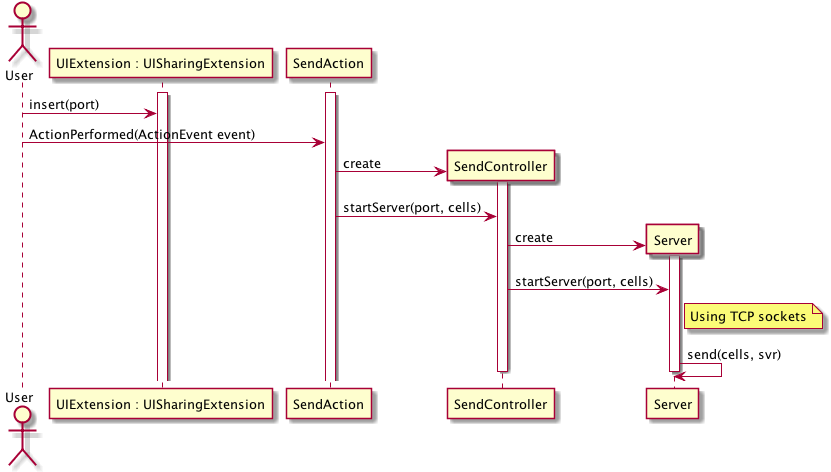
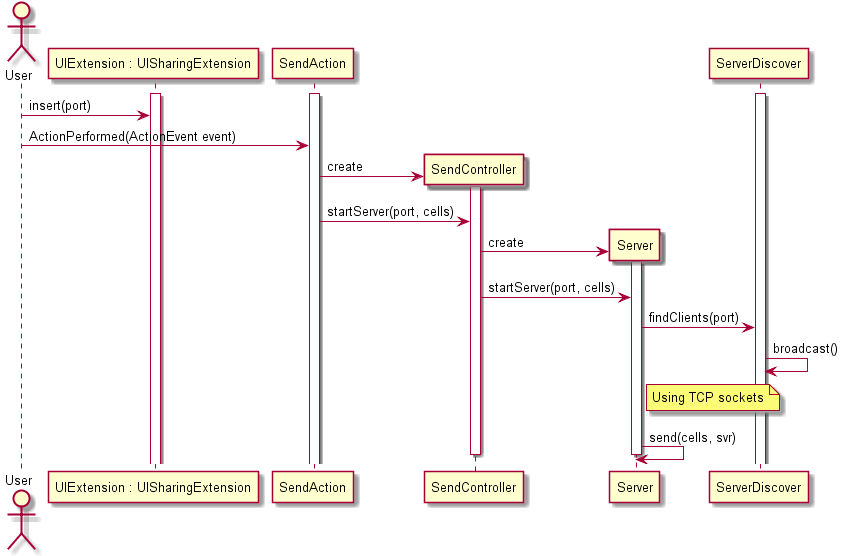
1100859: Updated some sequence diagrams of the client/server discover ref #14

Changed region(s): [[0.0, 0.0, 1.0, 1.0]]

diff --git a/src/csheets/ext/share/package-info.java b/src/csheets/ext/share/package-info.java
@@ -42,6 +42,11 @@
  * <img src="doc-files/sd_receive_client.png">
  * 
  * <p>
+ * <b>Sequence Diagram - Discover Servers</b>
+ * </p>
+ * <img src="doc-files/sd_cli_discover.png">
+ * 
+ * <p>
  * <b>Diagram to illustrate data communication beetween Client and Server</b>
  * </p>
  * <img src="doc-files/sd_client_server.png">
@@ -156,7 +161,9 @@
  participant SendAction as sa
  participant SendController as sc
  participant Server as svr
+ participant ServerDiscover as svrDisc
 
+ activate svrDisc
  activate sui
  activate sa
  us -> sui : insert(port)
@@ -170,9 +177,12 @@
  sc -> svr : create
  activate svr
  sc -> svr : startServer(port, cells)
+ svr -> svrDisc : findClients(port)
+ svrDisc -> svrDisc : broadcast()
  note right svr
  Using TCP sockets
  end note
+
  svr -> svr : send(cells, svr)
  deactivate svr
  deactivate sc
@@ -383,6 +393,29 @@
  FocusOwnerAction <|-- SendAction
  JMenu <|-- SharingMenu
  UIExtension <|-- UISharingExtension
+ @enduml
+
+
+ @startuml doc-files/sd_cli_discover.png
+ actor user as us
+ participant "UIExtension : UISharingExtension" as rui
+ participant ReceiveController as rc
+ participant ClientDiscover as cliDisc
+
+ activate rui
+ activate cliDisc
+ us -> rui : find Servers
+ Create rc
+ rui -> rc : create
+ activate rc
+ rui -> rc : findServers()
+ rc -> cliDisc : findServers()
+ cliDisc -> cliDisc : search()
+ cliDisc --> rc : return connections
+ rc --> rui : return connections
+ rui -> rui : show
+
+ deactivate rc
  @enduml
  */
 package csheets.ext.share;
